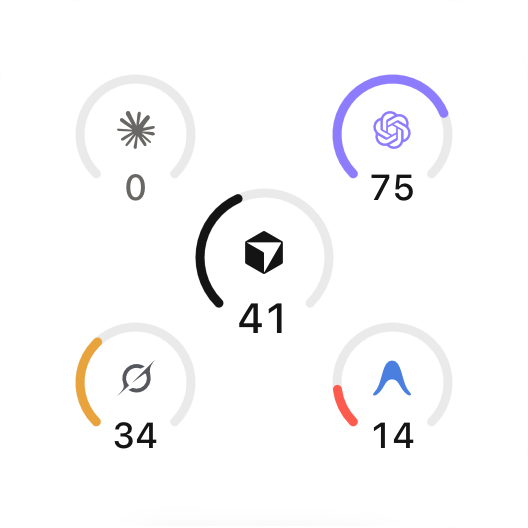
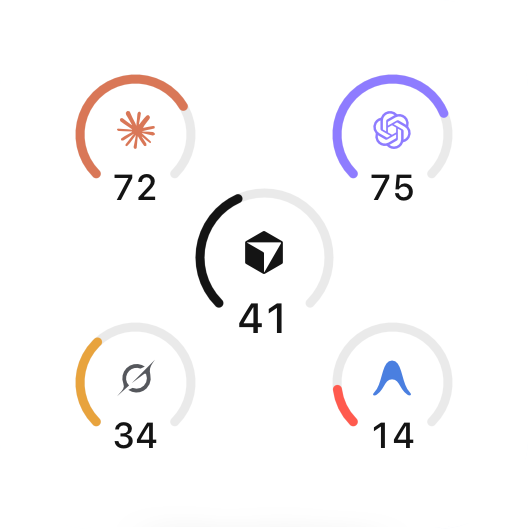
Widgets: recapture Arches and Bars from build 25
Token Range build 25 shows Claude's Weekly number by default in the
all-providers widgets (it was the lowest window, Fable). The small Arches and
medium Bars images are recaptured from build 25 on the iPhone 17 Pro Max
simulator with sample data and cut with the same rounded mask as before;
cache-bust bumped to v=20261018. The Single Limit image is unchanged.

diff --git a/index.html b/index.html
@@ -459,10 +459,10 @@
         </figcaption>
           <div class="widget-family">
             <div class="widget-piece small"><img src="assets/widget-single.png?v=20261005" width="528" height="529" alt="Small Single Limit widget showing Claude's Fable allowance and its reset time, with sample data"></div>
-            <div class="widget-piece small"><img src="assets/widget-arches.png?v=20261005" width="528" height="528" alt="Small Arches widget showing five providers as ring gauges, with sample data"></div>
+            <div class="widget-piece small"><img src="assets/widget-arches.png?v=20261018" width="528" height="529" alt="Small Arches widget showing five providers as ring gauges, with sample data"></div>
           </div>
           <div class="widget-family">
-            <div class="widget-piece wide"><img src="assets/widget-bars.png?v=20261005" width="1132" height="528" alt="Medium Bars widget showing five providers as cell meters, with sample data"></div>
+            <div class="widget-piece wide"><img src="assets/widget-bars.png?v=20261018" width="1132" height="529" alt="Medium Bars widget showing five providers as cell meters, with sample data"></div>
           </div>
       </figure>
 
